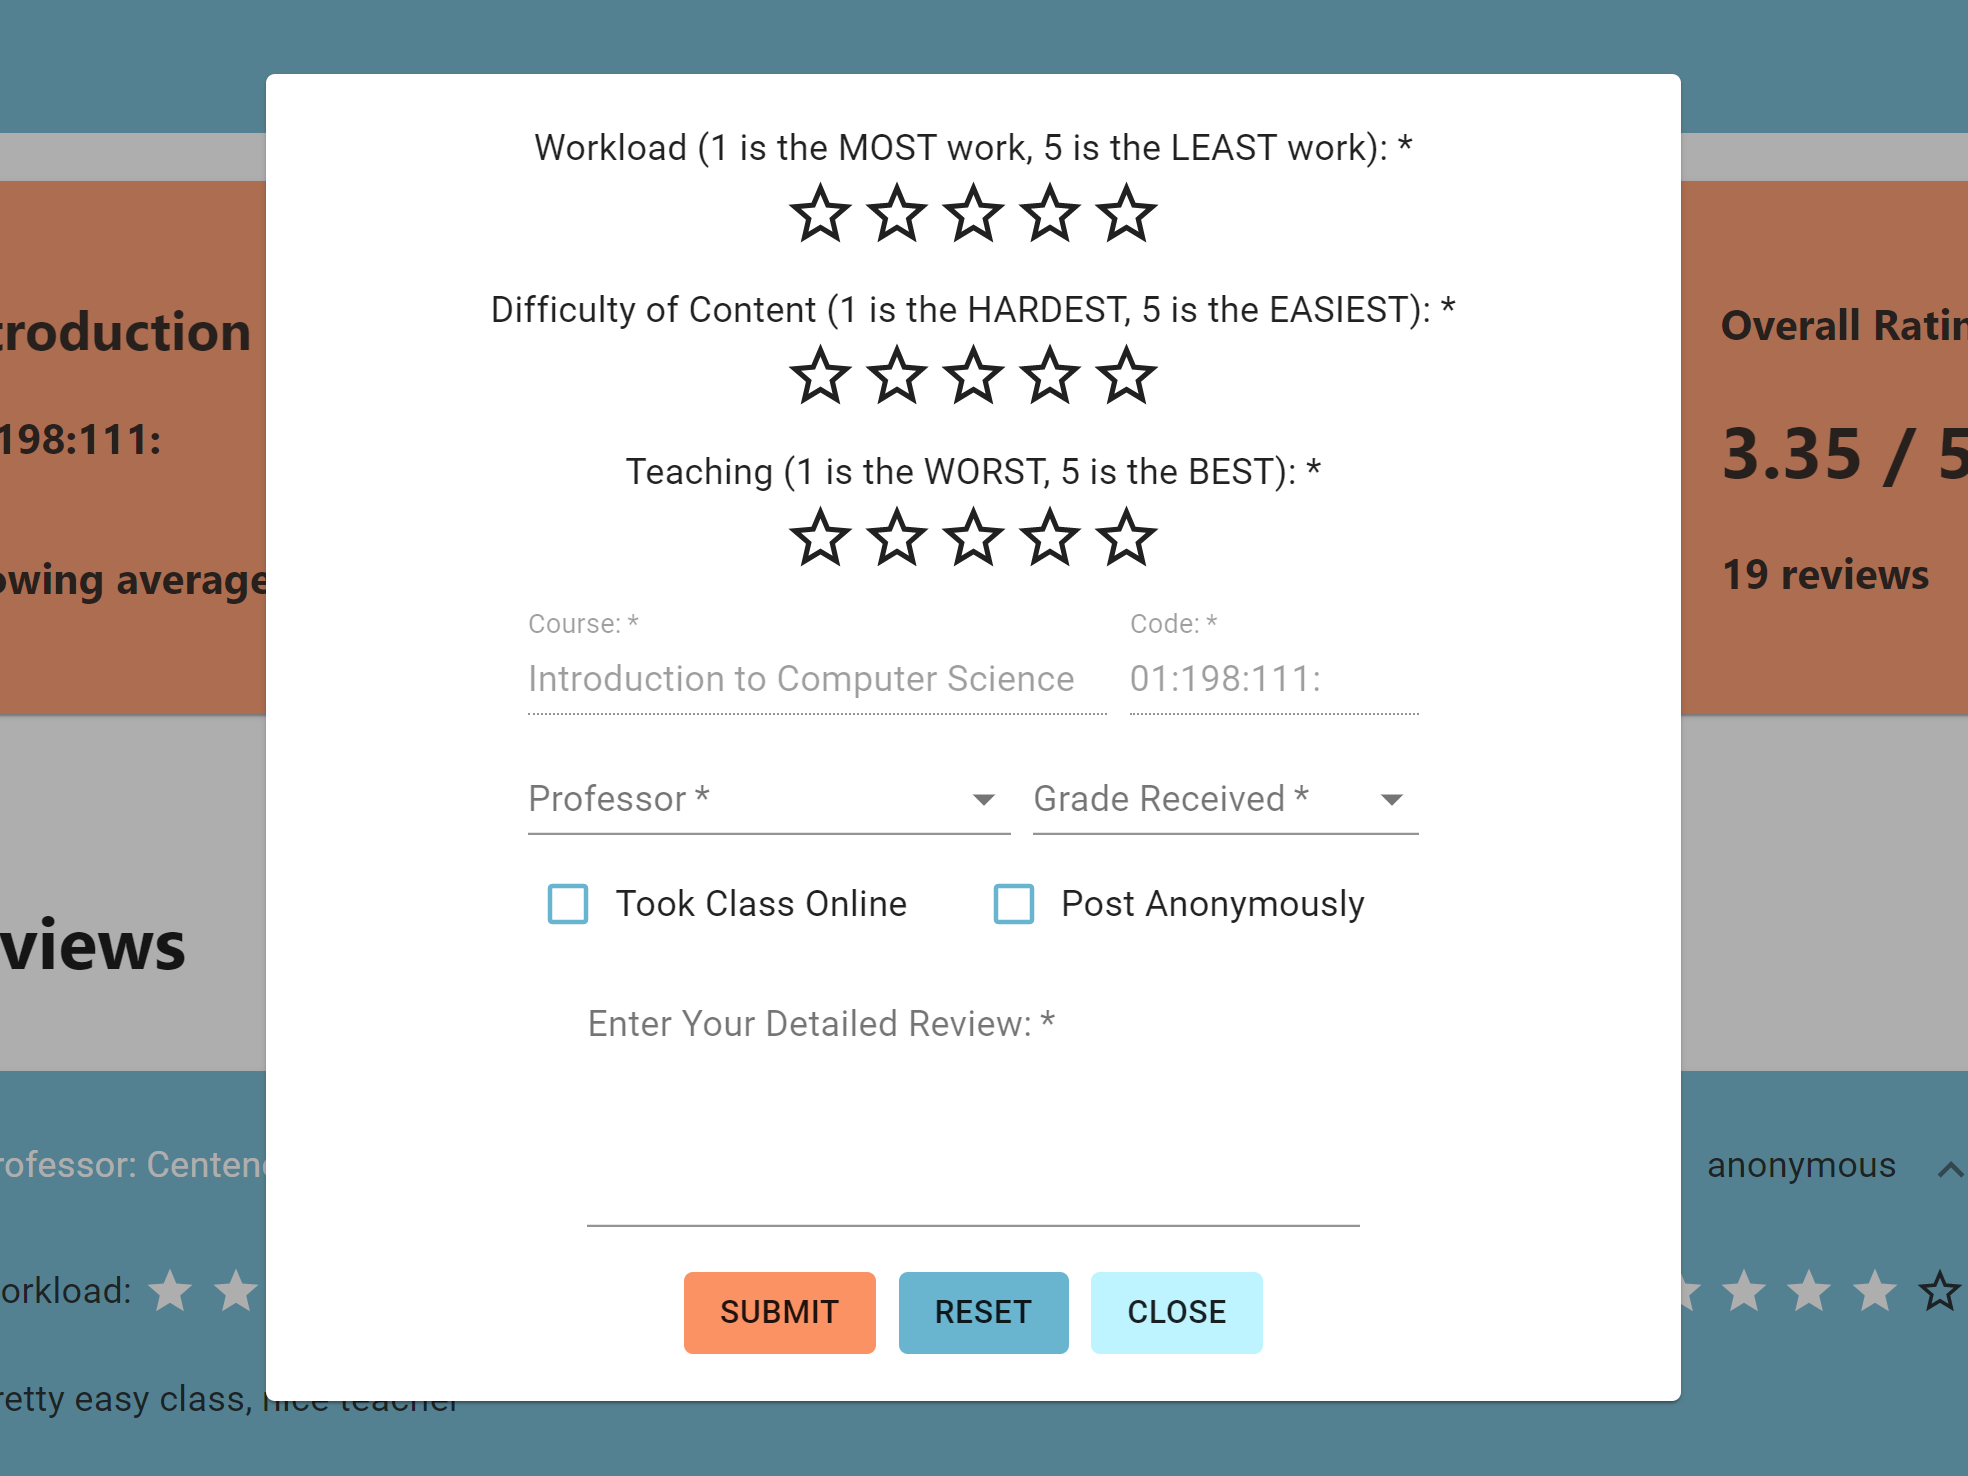
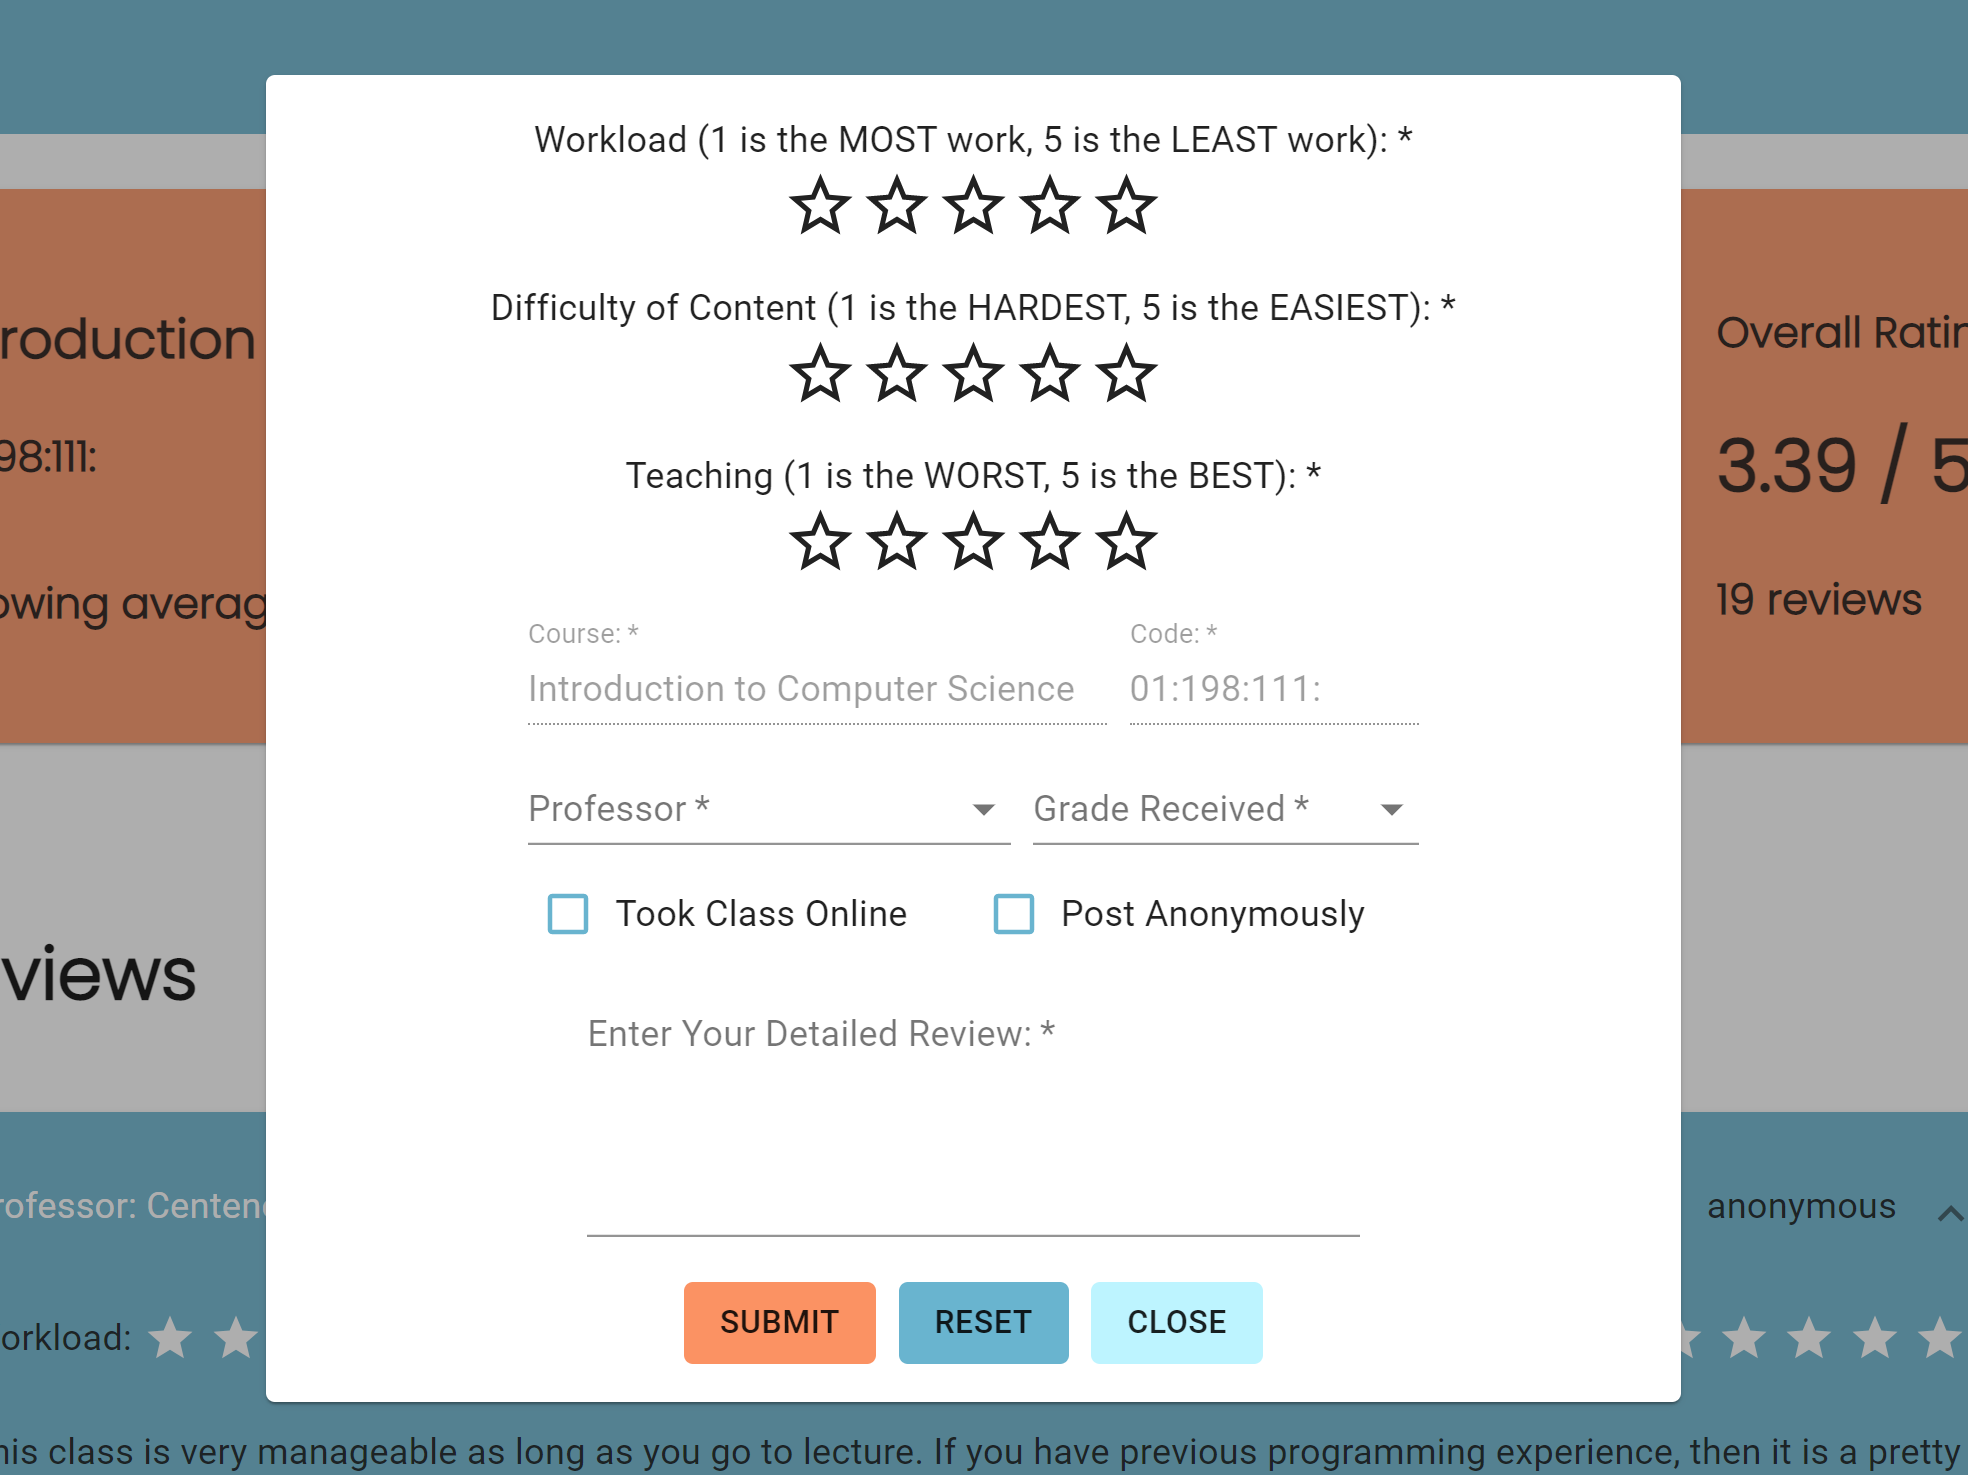
renamed Dashboard to CoursesPage and changed font to poppins

diff --git a/src/components/LandingPage.js b/src/components/LandingPage.js
@@ -14,7 +14,7 @@ const useStyles = makeStyles({
   root: {
     background: "linear-gradient(145deg, #5F9EA0 20%, #ff7f50 70%)",
     color: "white",
-    height: "2875px",
+    height: "3000px",
     maxWidth: "100%",
     overflowX: "hidden",
   },
@@ -27,7 +27,7 @@ const LandingPage = () => {
   }, []);
 
   const classes = useStyles();
-  const [directToDashboard, setDirectToDashboard] = useState(false);
+  const [directToCoursesPage, setDirectToCoursesPage] = useState(false);
   const [signupPopup, setSignupPopup] = useState(false);
   const [isLoggedIn, setIsLoggedIn] = useState(false);
 
@@ -39,7 +39,7 @@ const LandingPage = () => {
     });
   }
 
-  if (directToDashboard === true) return <Redirect to="/dashboard" />;
+  if (directToCoursesPage === true) return <Redirect to="/courses" />;
 
   return (
     // The top bar with logo and sign up and login
@@ -67,7 +67,7 @@ const LandingPage = () => {
           <center>
             <h1>
               wyr is an informative and intuitive tool to help find, choose, and
-              organize your classes.
+              organize your courses.
             </h1>
           </center>
         </Grid>
@@ -83,7 +83,7 @@ const LandingPage = () => {
             marginBottom: "50px",
             fontFamily: "Poppins",
           }}
-          onClick={() => setDirectToDashboard(true)}
+          onClick={() => setDirectToCoursesPage(true)}
         >
           check out reviews
         </Button>
@@ -127,7 +127,7 @@ const LandingPage = () => {
           <center>
             <h1 style={{ marginLeft: "10px" }}>
               Write reviews based on experience to help other students choose
-              their classes.
+              their courses.
             </h1>
           </center>
         </Grid>
@@ -147,7 +147,7 @@ const LandingPage = () => {
         <Grid item xs={4}>
           <center>
             <h1>
-              Get simple overviews for classes with all the info you need,
+              Get simple overviews for courses with all the info you need,
               without even signing up
             </h1>
           </center>
@@ -192,11 +192,11 @@ const LandingPage = () => {
         <Grid item xs={6}>
           <center>
             <h1 style={{ marginLeft: "10px" }}>
-              Search for topics of interests to find the perfect classes for
+              Search for topics of interests to find the perfect courses for
               you.
             </h1>
             <h1>
-              Want to write a review for a class that doesn't appear in the
+              Want to write a review for a course that doesn't appear in the
               list? No problem.
             </h1>
           </center>
@@ -226,7 +226,7 @@ const LandingPage = () => {
             marginBottom: "50px",
             fontFamily: "Poppins",
           }}
-          onClick={() => setDirectToDashboard(true)}
+          onClick={() => setDirectToCoursesPage(true)}
         >
           check out reviews
         </Button>

diff --git a/src/components/NavBar.js b/src/components/NavBar.js
@@ -19,6 +19,7 @@ const NavBar = ({
   const [loginPopup, setLoginPopup] = useState(false);
   const [signupPopup, setSignupPopup] = useState(false);
   const [backToLanding, setBackToLanding] = useState(false);
+  const [hover, setHover] = useState(false);
 
   const handleLogout = () => {
     dispatch(logoutUser());
@@ -40,17 +41,25 @@ const NavBar = ({
 
   return (
     <Grid container style={{ backgroundColor: backgroundColor }}>
-      <img
-        src="https://cdn.discordapp.com/attachments/812822571094900746/837106499863969812/wyr_transparent.png"
-        height={fromLandingPage ? "80" : "50"}
-        style={{
-          marginLeft: "5px",
-          marginTop: "5px",
-          marginBottom: "5px",
-        }}
-        alt=""
-        onClick={() => setBackToLanding(true)}
-      />
+      <div>
+        <img
+          src="https://cdn.discordapp.com/attachments/812822571094900746/837106499863969812/wyr_transparent.png"
+          height={fromLandingPage ? "80" : "50"}
+          id="wyr_logo"
+          style={{
+            marginLeft: "5px",
+            marginTop: "5px",
+            marginBottom: "5px",
+          }}
+          alt=""
+          onClick={() => setBackToLanding(true)}
+          onMouseEnter={() => setHover(true)}
+          onMouseLeave={() => setHover(false)}
+        />
+        {hover && !fromLandingPage && (
+          <label for="wyr_logo">back to home page</label>
+        )}
+      </div>
       {title && (
         <div style={{ marginLeft: "auto" }}>
           <h1
@@ -58,6 +67,7 @@ const NavBar = ({
               marginTop: "5px",
               marginBottom: "0px",
               marginLeft: isLoggedIn ? "3vw" : "8.5vw",
+              marginRight: hover ? "11vw" : "0vw",
             }}
           >
             {title}

diff --git a/src/components/ReviewPage.js b/src/components/ReviewPage.js
@@ -1,7 +1,7 @@
 import { useState, useEffect } from "react";
 import { makeStyles } from "@material-ui/styles";
 import { ArrowBackIos, ExpandMore } from "@material-ui/icons";
-import Dashboard from "./Dashboard";
+import CoursesPage from "./CoursesPage";
 import { db } from "../firebase/firebase";
 import { isMobileOnly } from "react-device-detect";
 import {
@@ -41,7 +41,7 @@ const useStyles = makeStyles((theme) => ({
 
 const ReviewPage = ({ selectedCourse }) => {
   const classes = useStyles();
-  const [returnToDashboard, setReturnToDashboard] = useState(false); // when true, returns Dashboard component
+  const [returnToCoursesPage, setReturnToCoursesPage] = useState(false); // when true, returns CoursesPage component
   const [reviewList, setReviewList] = useState([]); // list of reviews
   const [selectedProf, setSelectedProf] = useState("All Professors");
   const [profList, setProfList] = useState([]);
@@ -60,8 +60,8 @@ const ReviewPage = ({ selectedCourse }) => {
   };
 
   // handles when back button is clicked
-  const handleReturnToDashboard = () => {
-    setReturnToDashboard(true);
+  const handleReturnToCoursesPage = () => {
+    setReturnToCoursesPage(true);
   };
 
   useEffect(() => {
@@ -118,13 +118,13 @@ const ReviewPage = ({ selectedCourse }) => {
     );
   }, [selectedCourse, selectedProf]);
 
-  if (returnToDashboard) {
-    return <Dashboard />;
+  if (returnToCoursesPage) {
+    return <CoursesPage />;
   } else {
     return (
       <div>
         <Grid container style={{ backgroundColor: "#69b4cf" }}>
-          <IconButton onClick={handleReturnToDashboard}>
+          <IconButton onClick={handleReturnToCoursesPage}>
             <ArrowBackIos style={{ color: "white" }} />
           </IconButton>
           <img

diff --git a/src/components/CoursesPage.js b/src/components/CoursesPage.js
@@ -48,7 +48,7 @@ const styles = () => ({
   },
 });
 
-const Dashboard = (props) => {
+const CoursesPage = (props) => {
   const [courseList, setCourseList] = useState([]); // list of courses
   const [selectedCourse, setSelectedCourse] = useState({}); // course to pass to ReviewPage
   const [goToReviewPage, setGoToReviewPage] = useState(false); // mounts ReviewPage when true
@@ -119,7 +119,7 @@ const Dashboard = (props) => {
         <NavBar
           dispatch={dispatch}
           backgroundColor={"#69b4cf"}
-          title={"Classes"}
+          title={"Courses"}
         />
         <br />
         <Grid container direction="column" alignItems="center" justify="center">
@@ -191,12 +191,12 @@ const Dashboard = (props) => {
           </GridList>
 
           <div align="center">
-            <h1>Can't Find the Class You're Looking For?</h1>
+            <h1>Can't Find the Course You're Looking For?</h1>
             <Button
               className={classes.addReviewButton}
               onClick={popUpAddReview}
             >
-              Add Review for New Class
+              Add Review for New Course
             </Button>
             <AddReview trigger={buttonPopup} closed={closePopUp} />
           </div>
@@ -216,4 +216,4 @@ function mapStateToProps(state) {
   };
 }
 
-export default withStyles(styles)(connect(mapStateToProps)(Dashboard));
+export default withStyles(styles)(connect(mapStateToProps)(CoursesPage));

diff --git a/src/App.js b/src/App.js
@@ -1,6 +1,6 @@
 import { Route, Switch } from "react-router-dom";
 import ForgotpassPage from "./components/ForgotpassPage";
-import Dashboard from "./components/Dashboard";
+import CoursesPage from "./components/CoursesPage";
 import { connect } from "react-redux";
 import LandingPage from "./components/LandingPage";
 import { makeStyles } from "@material-ui/styles";
@@ -29,10 +29,10 @@ function App(props) {
       <Route exact path="/BlueprintIncubatorGeneral" component={LandingPage} />
       <Route
         exact
-        path="/dashboard"
+        path="/courses"
         isAuthenticated={isAuthenticated}
         isVerifying={isVerifying}
-        component={Dashboard}
+        component={CoursesPage}
       />
       <Route exact path="/forgotpassword" component={ForgotpassPage} />
     </Switch>

diff --git a/public/index.html b/public/index.html
@@ -11,6 +11,9 @@
       content="Web site created using create-react-app"
     />
     <link rel="apple-touch-icon" href="%PUBLIC_URL%/logo192.png" />
+    <link rel="preconnect" href="https://fonts.googleapis.com">
+    <link rel="preconnect" href="https://fonts.gstatic.com" crossorigin>
+    <link href="https://fonts.googleapis.com/css2?family=Poppins:wght@300&display=swap" rel="stylesheet">
     <!--
       manifest.json provides metadata used when your web app is installed on a
       user's mobile device or desktop. See https://developers.google.com/web/fundamentals/web-app-manifest/

diff --git a/src/index.css b/src/index.css
@@ -1,13 +1,11 @@
 body {
   margin: 0;
-  font-family: -apple-system, BlinkMacSystemFont, 'Segoe UI', 'Roboto', 'Oxygen',
-    'Ubuntu', 'Cantarell', 'Fira Sans', 'Droid Sans', 'Helvetica Neue',
-    sans-serif;
+  font-family: "Poppins", sans-serif;
   -webkit-font-smoothing: antialiased;
   -moz-osx-font-smoothing: grayscale;
 }
 
 code {
-  font-family: source-code-pro, Menlo, Monaco, Consolas, 'Courier New',
+  font-family: source-code-pro, Menlo, Monaco, Consolas, "Courier New",
     monospace;
 }
